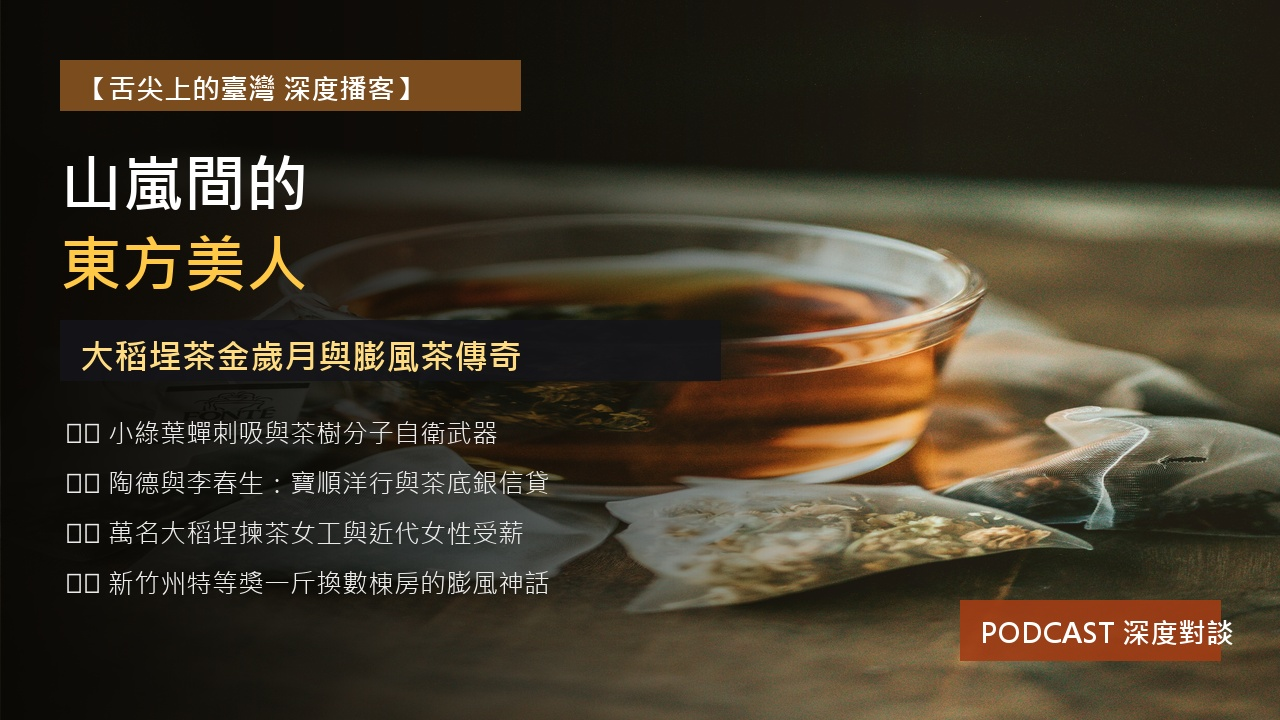
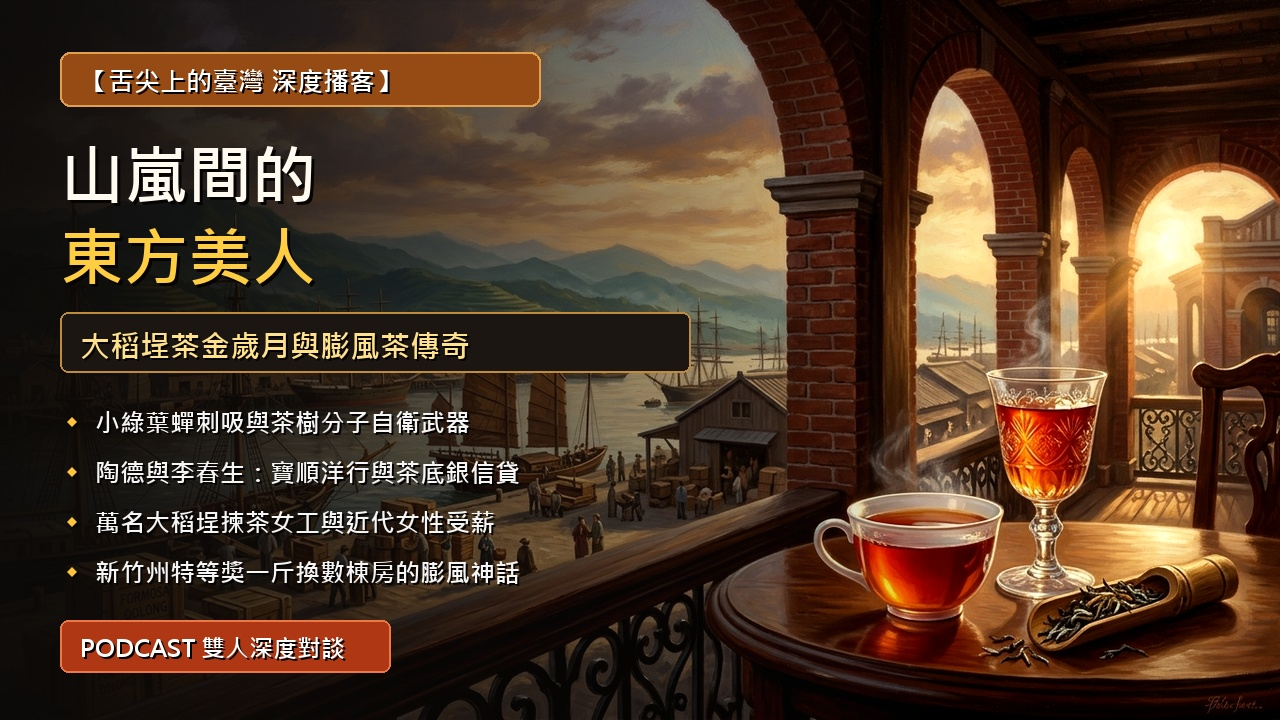
fix(food-ch10): 重製第10章 Podcast 封面背景圖，修復比例變形並更新影片與 YouTube 縮圖

diff --git a/00_專案計畫與規範/remake_ch10_podcast_and_update_youtube.py b/00_專案計畫與規範/remake_ch10_podcast_and_update_youtube.py
@@ -1,0 +1,154 @@
+# -*- coding: utf-8 -*-
+"""
+《舌尖上的臺灣》第 10 章 Podcast 封面縮圖重製、影片壓製與 YouTube 縮圖即時更新腳本
+"""
+import os
+import sys
+import shutil
+import subprocess
+from pathlib import Path
+from PIL import Image, ImageEnhance, ImageDraw, ImageFont, ImageOps
+
+if hasattr(sys.stdout, 'reconfigure'):
+    sys.stdout.reconfigure(encoding='utf-8', line_buffering=True)
+if hasattr(sys.stderr, 'reconfigure'):
+    sys.stderr.reconfigure(encoding='utf-8', line_buffering=True)
+
+BASE_DIR = Path(r"d:\Antigravity\科技歷史\臺灣史")
+ASSETS_DIR = BASE_DIR / "assets" / "images" / "food_ch10"
+MIRROR_DIR = BASE_DIR / "舌尖上的臺灣" / "assets" / "images" / "ch10"
+VIDEO_DIR = BASE_DIR / "舌尖上的臺灣" / "03_帝國之眼與東洋滋味"
+AI_MASTER = ASSETS_DIR / "food_ch10_oriental_beauty_ai_master.jpg"
+
+PODCAST_THUMB_MAIN = ASSETS_DIR / "food_ch10_podcast_thumbnail.jpg"
+AUDIO_FILE = VIDEO_DIR / "food_ch10_podcast_deepdive.m4a"
+VIDEO_OUTPUT = VIDEO_DIR / "第10章_山嵐間的東方美人_播客深度對談.mp4"
+VIDEO_ID = "rlhbgn4T1z8"
+
+def generate_podcast_thumbnail():
+    print("🎨 正在生成無變形 16:9 高畫質 Podcast 封面背景圖...")
+    img = Image.open(AI_MASTER).convert('RGB')
+    
+    # 嚴格 16:9 等比裁切填滿 (1280x720)
+    fitted = ImageOps.fit(img, (1280, 720), method=Image.Resampling.LANCZOS, centering=(0.5, 0.5))
+    
+    # 色彩微調
+    enhancer = ImageEnhance.Color(fitted)
+    fitted = enhancer.enhance(1.06)
+    enhancer = ImageEnhance.Contrast(fitted)
+    fitted = enhancer.enhance(1.08)
+    
+    # 左側深色漸層遮罩
+    overlay = Image.new('RGBA', (1280, 720), (0, 0, 0, 0))
+    draw_ol = ImageDraw.Draw(overlay)
+    for x in range(0, 960):
+        factor = 1 - (x / 960)**1.3
+        alpha = int(245 * max(0, factor))
+        draw_ol.rectangle([x, 0, x+1, 720], fill=(12, 10, 8, alpha))
+        
+    fitted.paste(Image.alpha_composite(Image.new('RGBA', (1280, 720), (0, 0, 0, 0)), overlay), (0, 0), overlay)
+    
+    font_bold = 'C:/Windows/Fonts/msjhbd.ttc'
+    f_tag = ImageFont.truetype(font_bold, 26)
+    f_title = ImageFont.truetype(font_bold, 64)
+    f_sub = ImageFont.truetype(font_bold, 30)
+    f_bullet_icon = ImageFont.truetype(font_bold, 22)
+    f_extra = ImageFont.truetype(font_bold, 25)
+    f_badge = ImageFont.truetype(font_bold, 24)
+    
+    draw = ImageDraw.Draw(fitted)
+    
+    def draw_text_with_shadow(xy, text, font, fill, shadow_fill=(5, 4, 3), offset=(2, 2)):
+        x, y = xy
+        draw.text((x + offset[0], y + offset[1]), text, font=font, fill=shadow_fill)
+        draw.text((x, y), text, font=font, fill=fill)
+        
+    # 1. 頂部系列標籤
+    draw.rounded_rectangle([60, 52, 540, 106], radius=10, fill=(150, 75, 20), outline=(225, 160, 80), width=2)
+    draw_text_with_shadow((82, 63), '【舌尖上的臺灣 深度播客】', f_tag, (255, 255, 255))
+    
+    # 2. 主標題
+    draw_text_with_shadow((60, 130), '山嵐間的', f_title, (255, 250, 240), offset=(3, 3))
+    draw_text_with_shadow((60, 212), '東方美人', f_title, (255, 205, 65), offset=(3, 3))
+    
+    # 3. 副標題欄
+    draw.rounded_rectangle([60, 312, 690, 372], radius=8, fill=(28, 22, 18, 230), outline=(190, 140, 60), width=2)
+    draw_text_with_shadow((80, 324), '大稻埕茶金歲月與膨風茶傳奇', f_sub, (255, 225, 140))
+    
+    # 4. 重點條目 (使用琥珀金菱形 bullet + 象牙白字體)
+    bullets = [
+        '小綠葉蟬刺吸與茶樹分子自衛武器',
+        '陶德與李春生：寶順洋行與茶底銀信貸',
+        '萬名大稻埕揀茶女工與近代女性受薪',
+        '新竹州特等獎一斤換數棟房的膨風神話'
+    ]
+    y_start = 405
+    for i, b in enumerate(bullets):
+        y = y_start + i * 50
+        draw_text_with_shadow((65, y+1), '◆', f_bullet_icon, (255, 195, 60), offset=(2, 2))
+        draw_text_with_shadow((95, y), b, f_extra, (245, 245, 245), offset=(2, 2))
+        
+    # 5. 左下方 PODCAST 規格標籤 (避開 YouTube 右下角時間戳)
+    draw.rounded_rectangle([60, 620, 390, 672], radius=8, fill=(175, 55, 20), outline=(235, 120, 70), width=2)
+    draw_text_with_shadow((80, 631), 'PODCAST 雙人深度對談', f_badge, (255, 255, 255))
+    
+    # 儲存主要縮圖
+    fitted.save(str(PODCAST_THUMB_MAIN), quality=95)
+    print(f"✅ 已輸出主要縮圖：{PODCAST_THUMB_MAIN}")
+    
+    # 同步鏡像至 舌尖上的臺灣/assets/images/ch10/
+    MIRROR_DIR.mkdir(parents=True, exist_ok=True)
+    shutil.copy2(PODCAST_THUMB_MAIN, MIRROR_DIR / "food_ch10_podcast_thumbnail.jpg")
+    shutil.copy2(PODCAST_THUMB_MAIN, MIRROR_DIR / "ch10_podcast_thumbnail.jpg")
+    shutil.copy2(AI_MASTER, MIRROR_DIR / "food_ch10_oriental_beauty_ai_master.jpg")
+    print(f"✅ 已同步鏡像至：{MIRROR_DIR}")
+
+def render_podcast_video():
+    print(f"\n🎬 正在使用 FFmpeg 重新壓製 Podcast 1080p 影片...")
+    cmd = [
+        "ffmpeg", "-loop", "1",
+        "-i", str(PODCAST_THUMB_MAIN),
+        "-i", str(AUDIO_FILE),
+        "-c:v", "libx264", "-tune", "stillimage",
+        "-c:a", "copy",
+        "-pix_fmt", "yuv420p",
+        "-shortest", "-y",
+        str(VIDEO_OUTPUT)
+    ]
+    print(f"[EXEC] {' '.join(cmd)}")
+    ret = subprocess.run(cmd, check=True)
+    if ret.returncode == 0:
+        print(f"✅ Podcast 影片壓製完成：{VIDEO_OUTPUT} (檔案大小: {VIDEO_OUTPUT.stat().st_size / (1024*1024):.2f} MB)")
+    else:
+        print("❌ FFmpeg 壓製失敗")
+        sys.exit(1)
+
+def update_youtube_thumbnail():
+    print(f"\n🌐 正在透過 YouTube API 更新線上影片 (ID: {VIDEO_ID}) 自訂封面縮圖...")
+    uploader_path = BASE_DIR / "00_專案計畫與規範" / "youtube_api_uploader.py"
+    sys.path.insert(0, str(uploader_path.parent))
+    from youtube_api_uploader import get_authenticated_service
+    from googleapiclient.http import MediaFileUpload
+    
+    youtube = get_authenticated_service()
+    if not youtube:
+        print("❌ 無法取得 YouTube API 驗證客戶端")
+        return False
+        
+    try:
+        request = youtube.thumbnails().set(
+            videoId=VIDEO_ID,
+            media_body=MediaFileUpload(str(PODCAST_THUMB_MAIN), mimetype="image/jpeg")
+        )
+        response = request.execute()
+        print(f"🎉 成功更新 YouTube 縮圖！Response: {response}")
+        return True
+    except Exception as e:
+        print(f"❌ YouTube 縮圖更新異常：{e}")
+        return False
+
+if __name__ == "__main__":
+    generate_podcast_thumbnail()
+    render_podcast_video()
+    update_youtube_thumbnail()
+    print("\n✨ 全部重製與發布更新流程圓滿完成！")

diff --git a/00_專案計畫與規範/create_food_ch10_thumbnails.py b/00_專案計畫與規範/create_food_ch10_thumbnails.py
@@ -132,31 +132,61 @@ draw_yt.text((1005, 612), "8分鐘精華導讀", fill=(255, 255, 255), font=f_yt
 
 yt_thumb.save("assets/images/food_ch10/food_ch10_youtube_thumbnail.jpg", quality=95)
 
-# 4. 播客縮圖 (1280x720): 琥珀茶湯 + 洋行帆船（茶金奢華風）
-pod_img = Image.open(os.path.join(temp_dir, "teacup.jpg")).convert("RGB").resize((1280, 720), Image.Resampling.LANCZOS)
-pod_thumb = apply_tea_gold_filter(pod_img, warm_tint=(250, 210, 150), vignette_strength=0.6)
+# 4. 播客縮圖 (1280x720): 博物館級 1870 大稻埕洋行與東方美人油畫（嚴格 16:9 等比無變形）
+master_ai_path = "assets/images/food_ch10/food_ch10_oriental_beauty_ai_master.jpg"
+if os.path.exists(master_ai_path):
+    pod_img = Image.open(master_ai_path).convert("RGB")
+else:
+    pod_img = Image.open(os.path.join(temp_dir, "teacup.jpg")).convert("RGB")
 
-draw_pod = ImageDraw.Draw(pod_thumb, "RGBA")
-for x in range(0, 950):
-    alpha = int(230 * (1 - (x / 950)))
-    draw_pod.rectangle([x, 0, x+1, 720], fill=(10, 8, 5, alpha))
+from PIL import ImageOps
+pod_thumb = ImageOps.fit(pod_img, (1280, 720), method=Image.Resampling.LANCZOS, centering=(0.5, 0.5))
 
-draw_pod.rectangle([60, 60, 520, 110], fill=(130, 80, 30, 240))
-draw_pod.text((80, 68), "【舌尖上的臺灣 深度播客】", fill=(255, 255, 255), font=f_yt_tag)
+enhancer = ImageEnhance.Color(pod_thumb)
+pod_thumb = enhancer.enhance(1.06)
+enhancer = ImageEnhance.Contrast(pod_thumb)
+pod_thumb = enhancer.enhance(1.08)
 
-draw_pod.text((60, 140), "山嵐間的", fill=(255, 255, 255), font=f_yt_title)
-draw_pod.text((60, 220), "東方美人", fill=(255, 200, 70), font=f_yt_title)
+overlay_pod = Image.new("RGBA", (1280, 720), (0, 0, 0, 0))
+draw_ol = ImageDraw.Draw(overlay_pod)
+for x in range(0, 960):
+    factor = 1 - (x / 960)**1.3
+    alpha = int(245 * max(0, factor))
+    draw_ol.rectangle([x, 0, x+1, 720], fill=(12, 10, 8, alpha))
+pod_thumb.paste(Image.alpha_composite(Image.new("RGBA", (1280, 720), (0, 0, 0, 0)), overlay_pod), (0, 0), overlay_pod)
 
-draw_pod.rectangle([60, 320, 720, 380], fill=(20, 20, 25, 220))
-draw_pod.text((80, 332), "大稻埕茶金歲月與膨風茶傳奇", fill=(255, 220, 130), font=f_yt_sub)
+f_bullet_icon = ImageFont.truetype(font_bold, 22)
+f_extra = ImageFont.truetype(font_bold, 25)
+f_badge = ImageFont.truetype(font_bold, 24)
+draw_pod = ImageDraw.Draw(pod_thumb)
 
-draw_pod.text((65, 415), "🎙 小綠葉蟬刺吸與茶樹分子自衛武器", fill=(235, 235, 235), font=f_yt_extra)
-draw_pod.text((65, 465), "🎙 陶德與李春生：寶順洋行與茶底銀信貸", fill=(235, 235, 235), font=f_yt_extra)
-draw_pod.text((65, 515), "🎙 萬名大稻埕揀茶女工與近代女性受薪", fill=(235, 235, 235), font=f_yt_extra)
-draw_pod.text((65, 565), "🎙 新竹州特等獎一斤換數棟房的膨風神話", fill=(235, 235, 235), font=f_yt_extra)
+def draw_text_shadow(xy, text, font, fill, shadow_fill=(5, 4, 3), offset=(2, 2)):
+    x, y = xy
+    draw_pod.text((x + offset[0], y + offset[1]), text, font=font, fill=shadow_fill)
+    draw_pod.text((x, y), text, font=font, fill=fill)
 
-draw_pod.rectangle([960, 600, 1220, 660], fill=(160, 60, 20, 230))
-draw_pod.text((980, 612), "PODCAST 深度對談", fill=(255, 255, 255), font=f_yt_tag)
+draw_pod.rounded_rectangle([60, 52, 540, 106], radius=10, fill=(150, 75, 20), outline=(225, 160, 80), width=2)
+draw_text_shadow((82, 63), "【舌尖上的臺灣 深度播客】", f_tag, (255, 255, 255))
+
+draw_text_shadow((60, 130), "山嵐間的", f_yt_title, (255, 250, 240), offset=(3, 3))
+draw_text_shadow((60, 212), "東方美人", f_yt_title, (255, 205, 65), offset=(3, 3))
+
+draw_pod.rounded_rectangle([60, 312, 690, 372], radius=8, fill=(28, 22, 18, 230), outline=(190, 140, 60), width=2)
+draw_text_shadow((80, 324), "大稻埕茶金歲月與膨風茶傳奇", f_sub, (255, 225, 140))
+
+bullets = [
+    "小綠葉蟬刺吸與茶樹分子自衛武器",
+    "陶德與李春生：寶順洋行與茶底銀信貸",
+    "萬名大稻埕揀茶女工與近代女性受薪",
+    "新竹州特等獎一斤換數棟房的膨風神話"
+]
+for i, b in enumerate(bullets):
+    y = 405 + i * 50
+    draw_text_shadow((65, y+1), "◆", f_bullet_icon, (255, 195, 60), offset=(2, 2))
+    draw_text_shadow((95, y), b, f_extra, (245, 245, 245), offset=(2, 2))
+
+draw_pod.rounded_rectangle([60, 620, 390, 672], radius=8, fill=(175, 55, 20), outline=(235, 120, 70), width=2)
+draw_text_shadow((80, 631), "PODCAST 雙人深度對談", f_badge, (255, 255, 255))
 
 pod_thumb.save("assets/images/food_ch10/food_ch10_podcast_thumbnail.jpg", quality=95)
 
